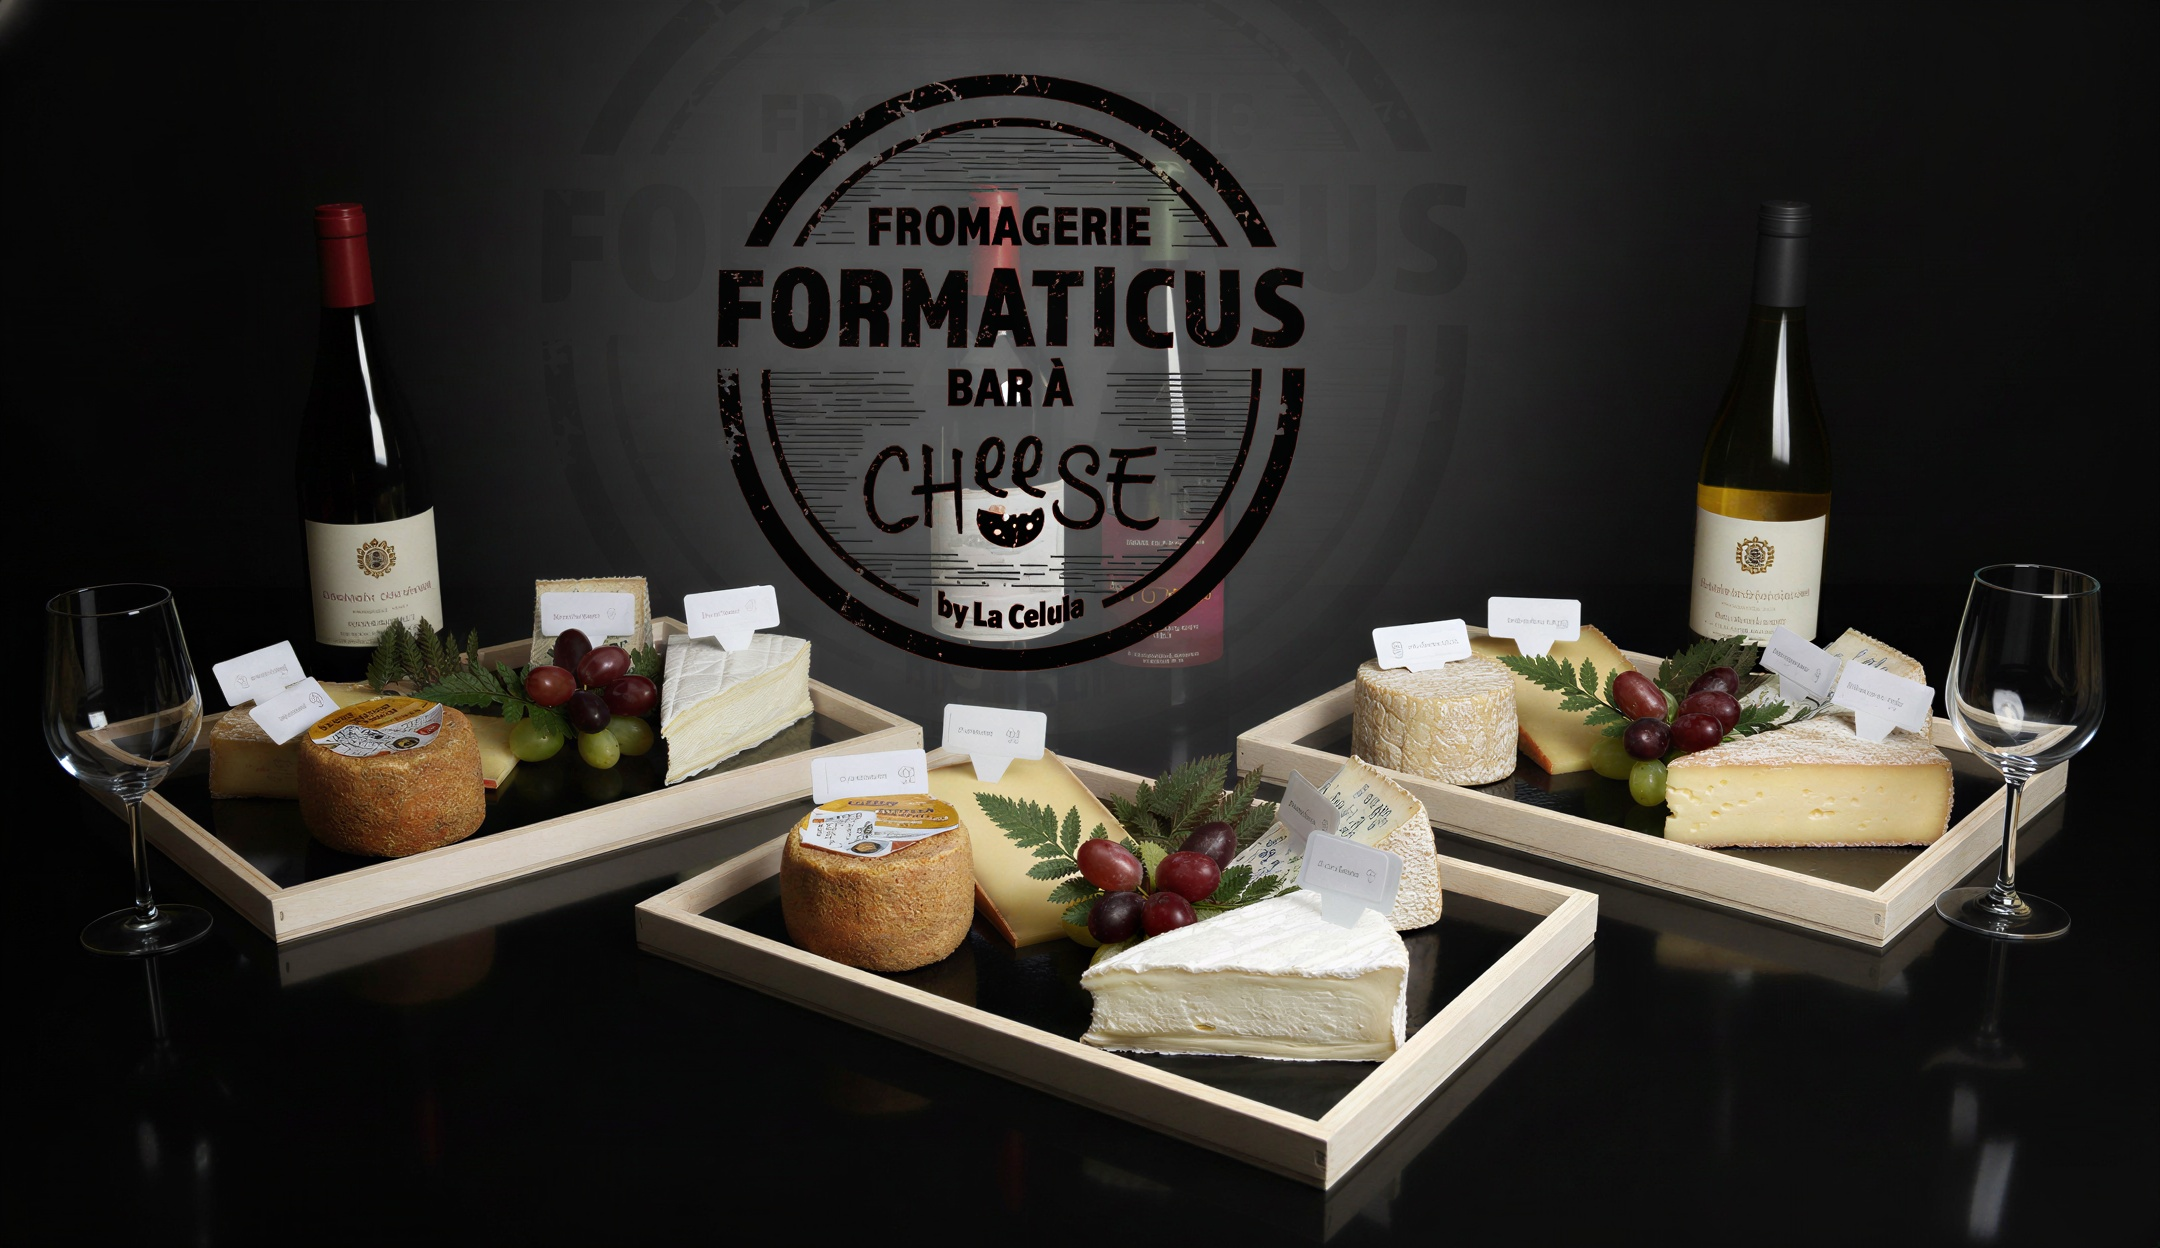
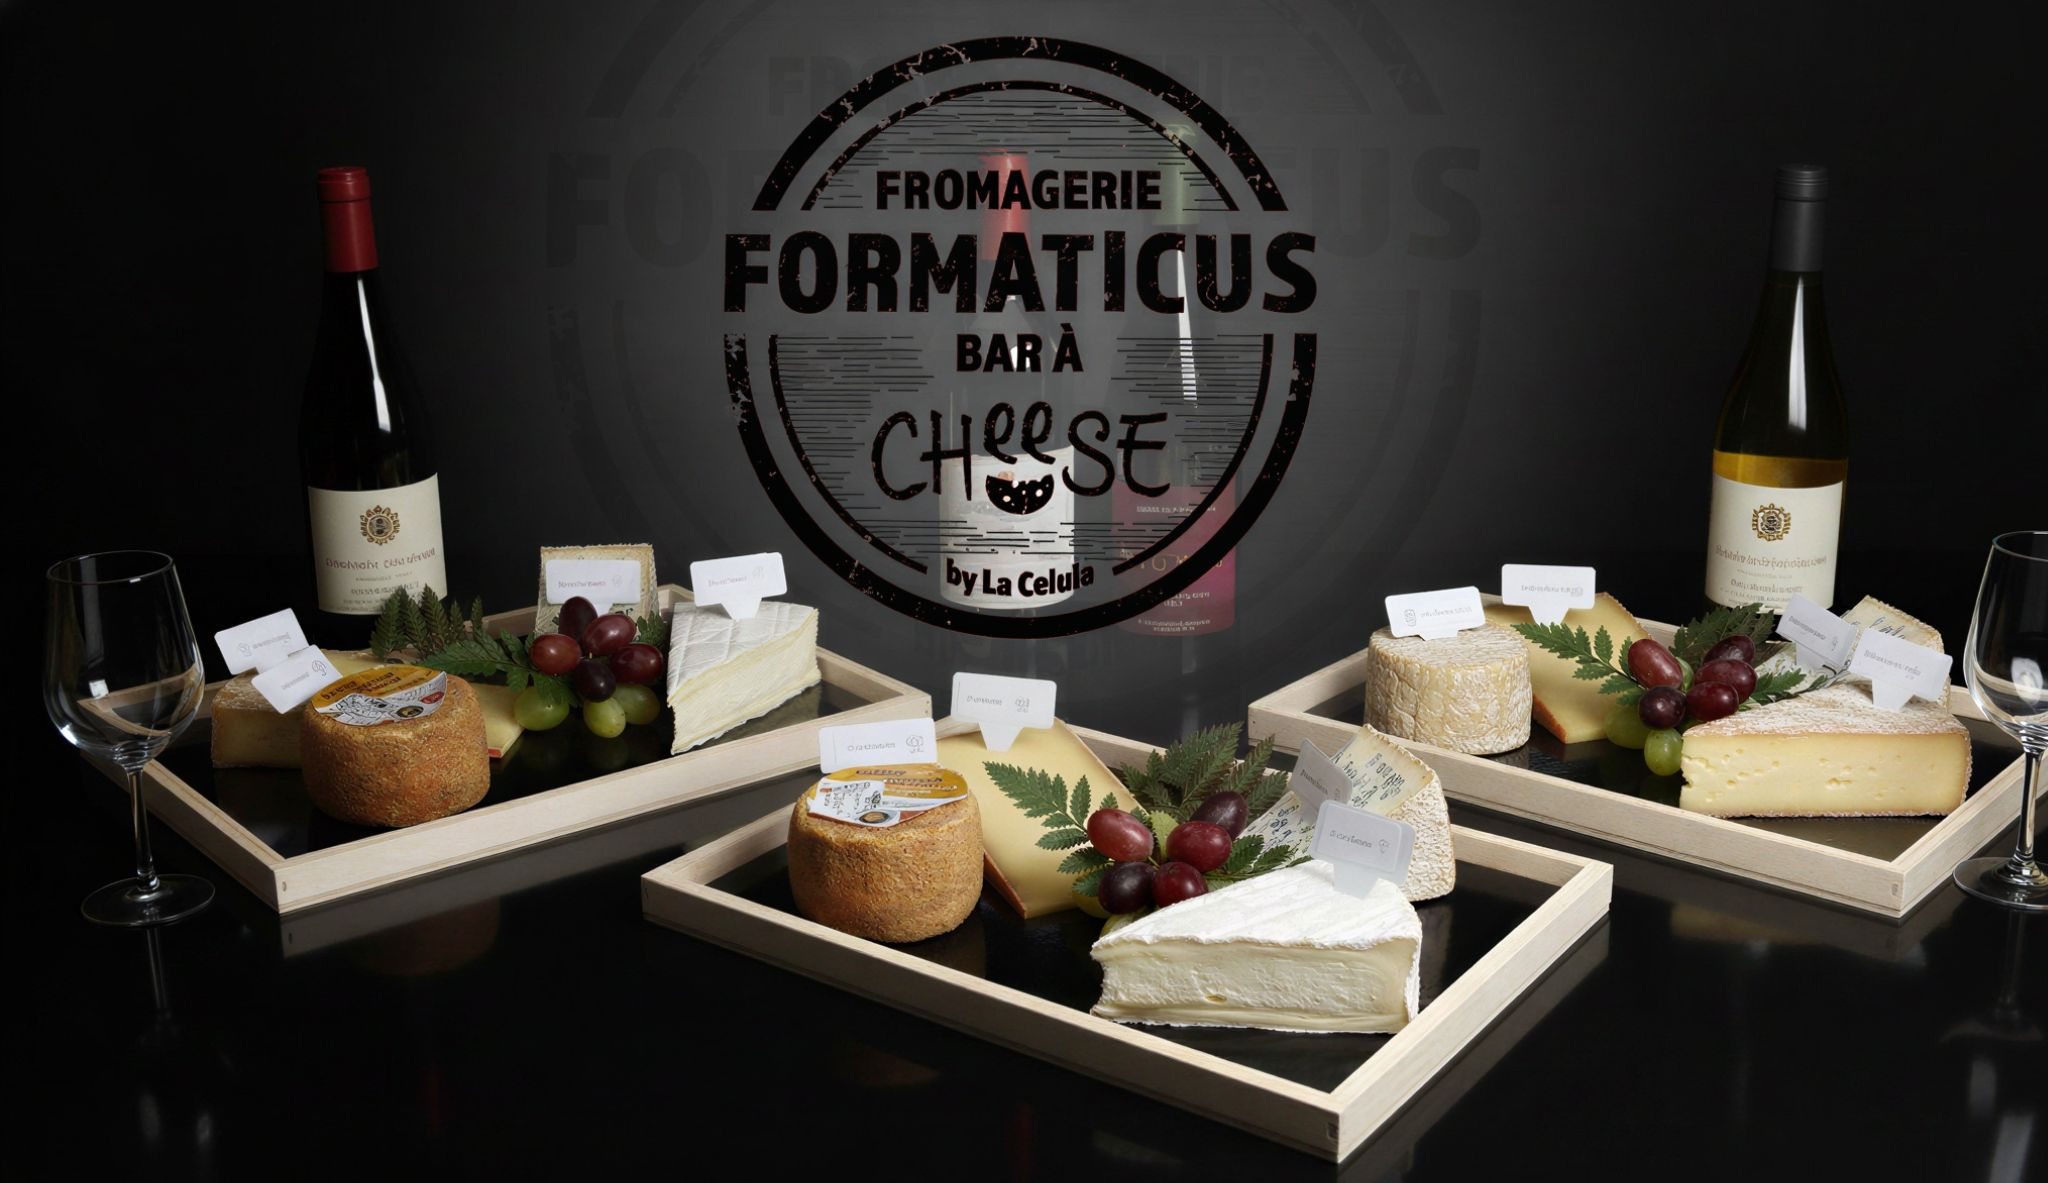
feat: Image professionnelle événements/traiteur avec effet parallax
- Nouvelle image: hero-evenements-traiteur.jpg
- Composition complète: logo, plateaux, vins, verres
- Utilisée sur page /evenements avec effet parallax
- Utilisée dans slide 4 homepage (Service Traiteur)
- Effet parallax fluide au scroll
- Renforce branding Formaticus
- Suppression ancien fichier nom cryptique

diff --git a/app/evenements/page.tsx b/app/evenements/page.tsx
@@ -1,12 +1,11 @@
-import { Metadata } from 'next'
+'use client'
+
 import Link from 'next/link'
 import Image from 'next/image'
-import { generateEvenementsMetadata } from '@/lib/metadata'
 import { SITE_DATA } from '@/lib/constants'
 import { Ornament } from '@/components/ui/Ornament'
 import { Clock, Users, CheckCircle, Calendar } from 'lucide-react'
-
-export const metadata: Metadata = generateEvenementsMetadata()
+import { useState, useEffect } from 'react'
 
 // Prochaines dates disponibles (dates réelles à mettre à jour)
 const prochainesDates = [
@@ -194,19 +193,37 @@ const evenements = [
 
 export default function EvenementsPage() {
   const events = evenements
+  const [scrollY, setScrollY] = useState(0)
+
+  useEffect(() => {
+    const handleScroll = () => {
+      setScrollY(window.scrollY)
+    }
+
+    window.addEventListener('scroll', handleScroll, { passive: true })
+    return () => window.removeEventListener('scroll', handleScroll)
+  }, [])
 
   return (
     <main className="min-h-screen bg-black">
       {/* Hero Section */}
       <section className="relative h-screen flex items-center justify-center overflow-hidden">
         <div className="absolute inset-0 z-0">
-          <Image
-            src="https://images.unsplash.com/photo-1530648672449-81f6c723e2f1?q=80&w=2940"
-            alt="Soirées conviviales Formaticus"
-            fill
-            className="object-cover"
-            priority
-          />
+          <div
+            className="absolute inset-0"
+            style={{
+              transform: `translateY(${scrollY * 0.5}px)`,
+              transition: 'transform 0.1s ease-out'
+            }}
+          >
+            <Image
+              src="/Séance Photo Nicolas 20220423/hero-evenements-traiteur.jpg"
+              alt="Soirées conviviales Formaticus"
+              fill
+              className="object-cover scale-110"
+              priority
+            />
+          </div>
           <div className="absolute inset-0 bg-black/60" />
         </div>
 

diff --git a/app/page.tsx b/app/page.tsx
@@ -51,7 +51,7 @@ const heroSlides = [
     href: '/fromages'
   },
   {
-    image: '/Séance Photo Nicolas 20220423/plateau-fromages-03.jpg',
+    image: '/Séance Photo Nicolas 20220423/hero-evenements-traiteur.jpg',
     tagline: 'PLATEAUX SUR MESURE',
     title: ['Service Traiteur', 'pour Vos Événements'],
     description: 'Mariages, anniversaires, réceptions d\'entreprise... Créez avec nous le plateau fromager parfait pour votre événement.',
